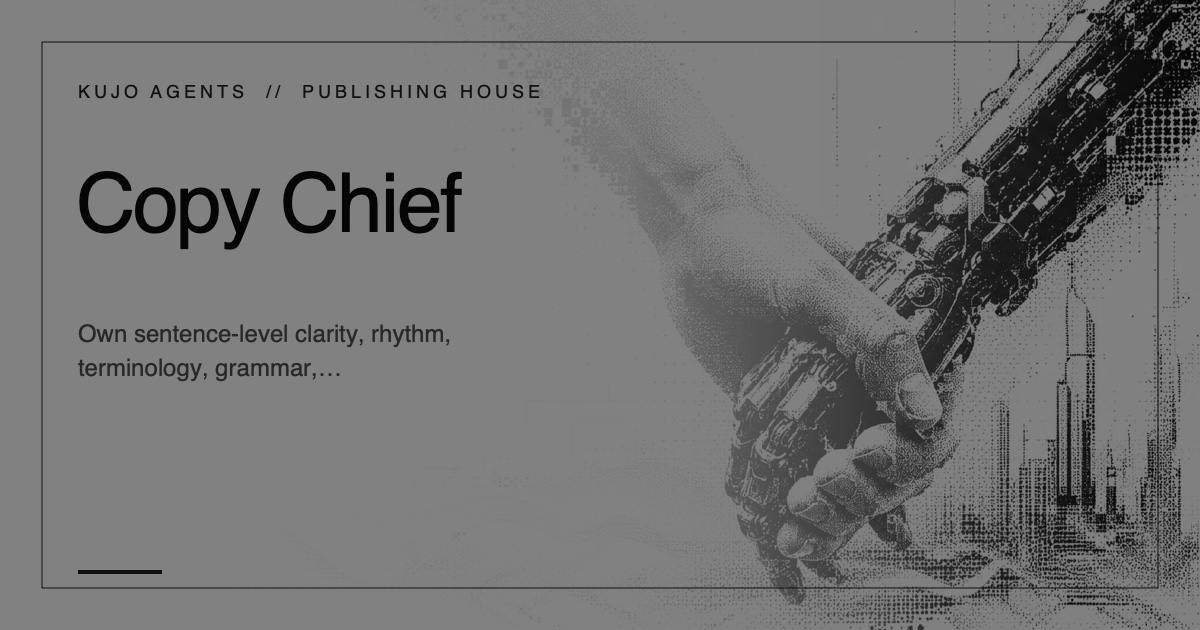
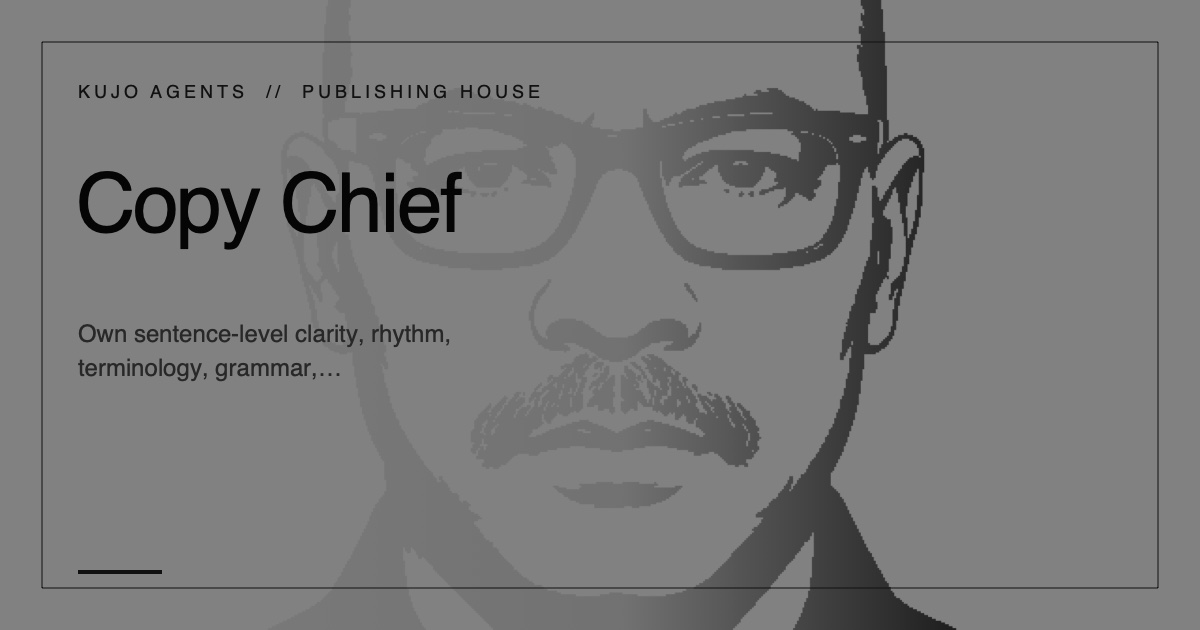
feat: add Publishing House agent portraits

Changed region(s): [[0.5242, 0.0, 1.0, 1.0]]

diff --git a/content/agents/director-of-editorial-intelligence.md b/content/agents/director-of-editorial-intelligence.md
@@ -6,7 +6,7 @@ excerpt: "Synthesize audience, category, product, cultural, search, community, c
 seo_title: "Director of Editorial Intelligence | Kujo Publishing House"
 seo_description: "Synthesize audience, category, product, cultural, search, community, competitor, and source intelligence into non-obvious editorial opportunities."
 keywords: "Kujo agent, Publishing House, editorial operations, Director of Editorial Intelligence"
-featured_image: "assets/images/kujo-logomark.svg"
+featured_image: "content/media/agents/director-of-editorial-intelligence.webp"
 categories: ["Publishing House"]
 tags: ["Strategy & Intelligence"]
 order: 6

diff --git a/content/agents/publishing-operations-director.md b/content/agents/publishing-operations-director.md
@@ -6,7 +6,7 @@ excerpt: "Publish or schedule only an explicitly approved artifact version throu
 seo_title: "Publishing Operations Director | Kujo Publishing House"
 seo_description: "Publish or schedule only an explicitly approved artifact version through a bounded adapter, with preflight, idempotency, rollback awareness, and receipts."
 keywords: "Kujo agent, Publishing House, editorial operations, Publishing Operations Director"
-featured_image: "assets/images/kujo-logomark.svg"
+featured_image: "content/media/agents/publishing-operations-director.webp"
 categories: ["Publishing House"]
 tags: ["Production & Publication"]
 order: 19

diff --git a/content/agents/technical-editor-writer.md b/content/agents/technical-editor-writer.md
@@ -6,7 +6,7 @@ excerpt: "Create technical explanations, tutorials, workflow walkthroughs, code 
 seo_title: "Technical Editor & Writer | Kujo Publishing House"
 seo_description: "Create technical explanations, tutorials, workflow walkthroughs, code examples, and product narratives that remain reproducible and source-grounded."
 keywords: "Kujo agent, Publishing House, editorial operations, Technical Editor & Writer"
-featured_image: "assets/images/kujo-logomark.svg"
+featured_image: "content/media/agents/technical-editor-writer.webp"
 categories: ["Publishing House"]
 tags: ["Writing & Creative"]
 order: 10

diff --git a/content/agents/audience-development-director.md b/content/agents/audience-development-director.md
@@ -6,7 +6,7 @@ excerpt: "Design distribution, subscriber, community, and audience-learning stra
 seo_title: "Audience Development Director | Kujo Publishing House"
 seo_description: "Design distribution, subscriber, community, and audience-learning strategy around approved editorial work and measured behavior."
 keywords: "Kujo agent, Publishing House, editorial operations, Audience Development Director"
-featured_image: "assets/images/kujo-logomark.svg"
+featured_image: "content/media/agents/audience-development-director.webp"
 categories: ["Publishing House"]
 tags: ["Adaptation & Audience"]
 order: 17

diff --git a/content/agents/franchise-adaptation-editor.md b/content/agents/franchise-adaptation-editor.md
@@ -6,7 +6,7 @@ excerpt: "Extend approved primary work into durable editorial franchises and for
 seo_title: "Franchise & Adaptation Editor | Kujo Publishing House"
 seo_description: "Extend approved primary work into durable editorial franchises and format-native derivatives without changing its claim boundary."
 keywords: "Kujo agent, Publishing House, editorial operations, Franchise & Adaptation Editor"
-featured_image: "assets/images/kujo-logomark.svg"
+featured_image: "content/media/agents/franchise-adaptation-editor.webp"
 categories: ["Publishing House"]
 tags: ["Adaptation & Audience"]
 order: 16

diff --git a/content/agents/social-community-editor.md b/content/agents/social-community-editor.md
@@ -6,7 +6,7 @@ excerpt: "Create platform-native social posts, threads, prompts, replies, and co
 seo_title: "Social & Community Editor | Kujo Publishing House"
 seo_description: "Create platform-native social posts, threads, prompts, replies, and community packages that invite useful participation without flattening the source."
 keywords: "Kujo agent, Publishing House, editorial operations, Social & Community Editor"
-featured_image: "assets/images/kujo-logomark.svg"
+featured_image: "content/media/agents/social-community-editor.webp"
 categories: ["Publishing House"]
 tags: ["Format Desk"]
 order: 21

diff --git a/content/agents/standards-evidence-editor.md b/content/agents/standards-evidence-editor.md
@@ -6,7 +6,7 @@ excerpt: "Independently verify claims, sources, quotations, attribution, disclos
 seo_title: "Standards & Evidence Editor | Kujo Publishing House"
 seo_description: "Independently verify claims, sources, quotations, attribution, disclosures, rights, privacy, product status, and evidence classifications."
 keywords: "Kujo agent, Publishing House, editorial operations, Standards & Evidence Editor"
-featured_image: "assets/images/kujo-logomark.svg"
+featured_image: "content/media/agents/standards-evidence-editor.webp"
 categories: ["Publishing House"]
 tags: ["Editorial Quality"]
 order: 15

diff --git a/content/agents/production-editor.md b/content/agents/production-editor.md
@@ -6,7 +6,7 @@ excerpt: "Assemble validated, versioned, reviewable content packages with manife
 seo_title: "Production Editor | Kujo Publishing House"
 seo_description: "Assemble validated, versioned, reviewable content packages with manifests, checksums, source artifacts, assets, evidence, metadata, and approval requirements."
 keywords: "Kujo agent, Publishing House, editorial operations, Production Editor"
-featured_image: "assets/images/kujo-logomark.svg"
+featured_image: "content/media/agents/production-editor.webp"
 categories: ["Publishing House"]
 tags: ["Production & Publication"]
 order: 18

diff --git a/content/agents/editorial-strategy-director.md b/content/agents/editorial-strategy-director.md
@@ -6,7 +6,7 @@ excerpt: "Turn organizational goals into editorial theses, campaign architecture
 seo_title: "Editorial Strategy Director | Kujo Publishing House"
 seo_description: "Turn organizational goals into editorial theses, campaign architectures, audience journeys, franchises, and portfolio choices."
 keywords: "Kujo agent, Publishing House, editorial operations, Editorial Strategy Director"
-featured_image: "assets/images/kujo-logomark.svg"
+featured_image: "content/media/agents/editorial-strategy-director.webp"
 categories: ["Publishing House"]
 tags: ["Strategy & Intelligence"]
 order: 4

diff --git a/content/agents/brand-strategy-director.md b/content/agents/brand-strategy-director.md
@@ -6,7 +6,7 @@ excerpt: "Define positioning, category framing, audience promise, differentiatio
 seo_title: "Brand Strategy Director | Kujo Publishing House"
 seo_description: "Define positioning, category framing, audience promise, differentiation, voice principles, distinctive assets, and brand boundaries."
 keywords: "Kujo agent, Publishing House, editorial operations, Brand Strategy Director"
-featured_image: "assets/images/kujo-logomark.svg"
+featured_image: "content/media/agents/brand-strategy-director.webp"
 categories: ["Publishing House"]
 tags: ["Strategy & Intelligence"]
 order: 5

diff --git a/content/agents/video-audio-producer.md b/content/agents/video-audio-producer.md
@@ -6,7 +6,7 @@ excerpt: "Turn approved editorial ideas into treatments, scripts, storyboards, s
 seo_title: "Video & Audio Producer | Kujo Publishing House"
 seo_description: "Turn approved editorial ideas into treatments, scripts, storyboards, shot or segment plans, voiceover, captions, and reviewable multimedia packages."
 keywords: "Kujo agent, Publishing House, editorial operations, Video & Audio Producer"
-featured_image: "assets/images/kujo-logomark.svg"
+featured_image: "content/media/agents/video-audio-producer.webp"
 categories: ["Publishing House"]
 tags: ["Format Desk"]
 order: 23

diff --git a/content/agents/commissioning-editor.md b/content/agents/commissioning-editor.md
@@ -6,7 +6,7 @@ excerpt: "Convert approved strategy into sharp assignments with a thesis, angle,
 seo_title: "Commissioning Editor | Kujo Publishing House"
 seo_description: "Convert approved strategy into sharp assignments with a thesis, angle, reader promise, evidence burden, format, owner, and artifact bundle."
 keywords: "Kujo agent, Publishing House, editorial operations, Commissioning Editor"
-featured_image: "assets/images/kujo-logomark.svg"
+featured_image: "content/media/agents/commissioning-editor.webp"
 categories: ["Publishing House"]
 tags: ["Strategy & Intelligence"]
 order: 8
